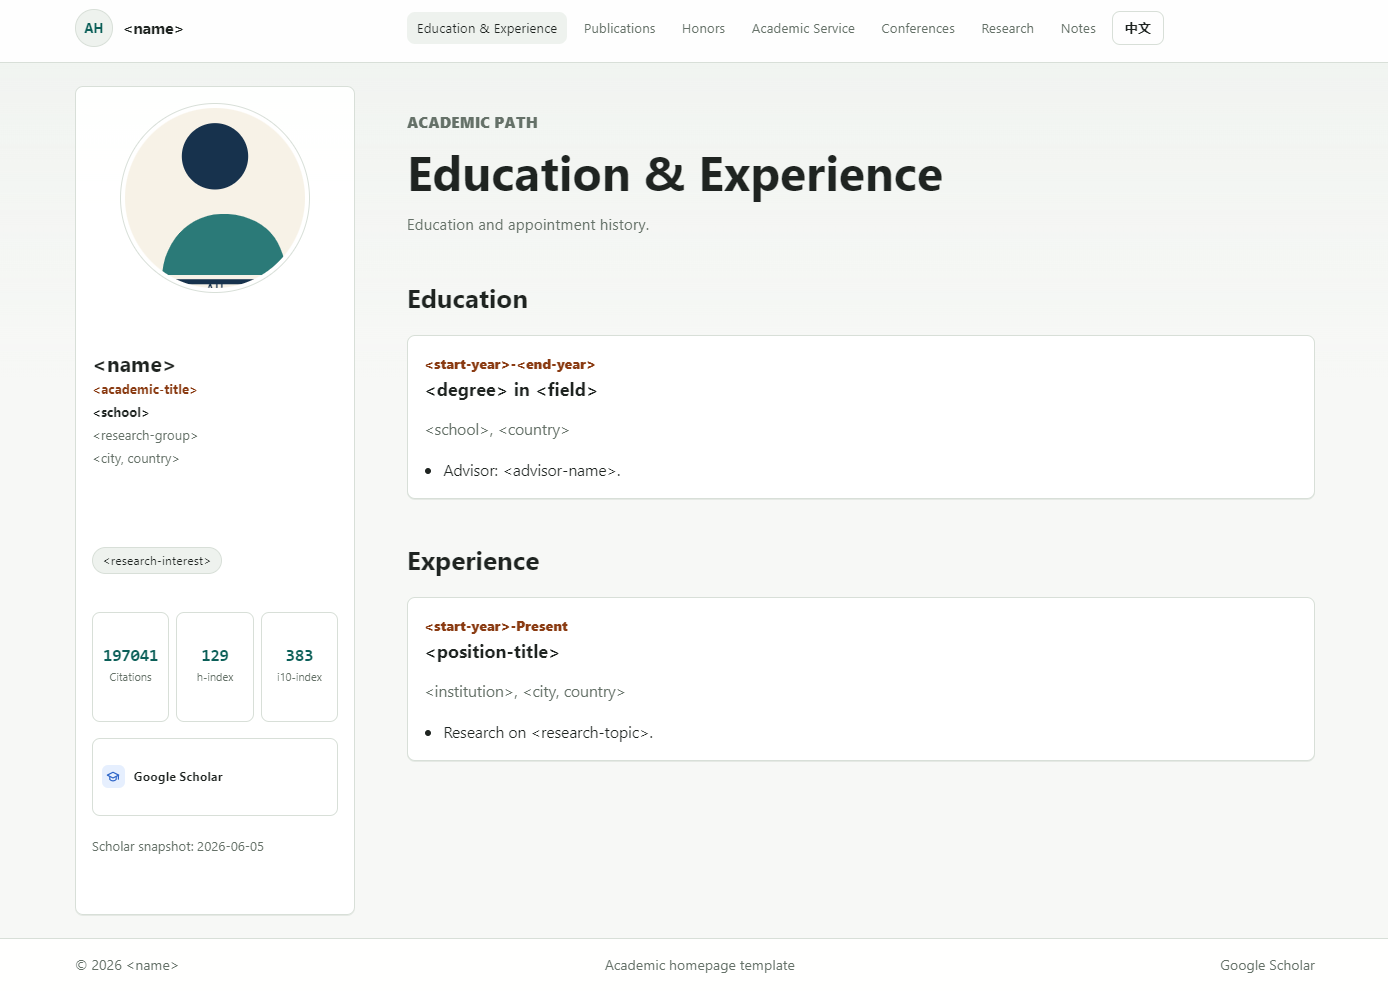
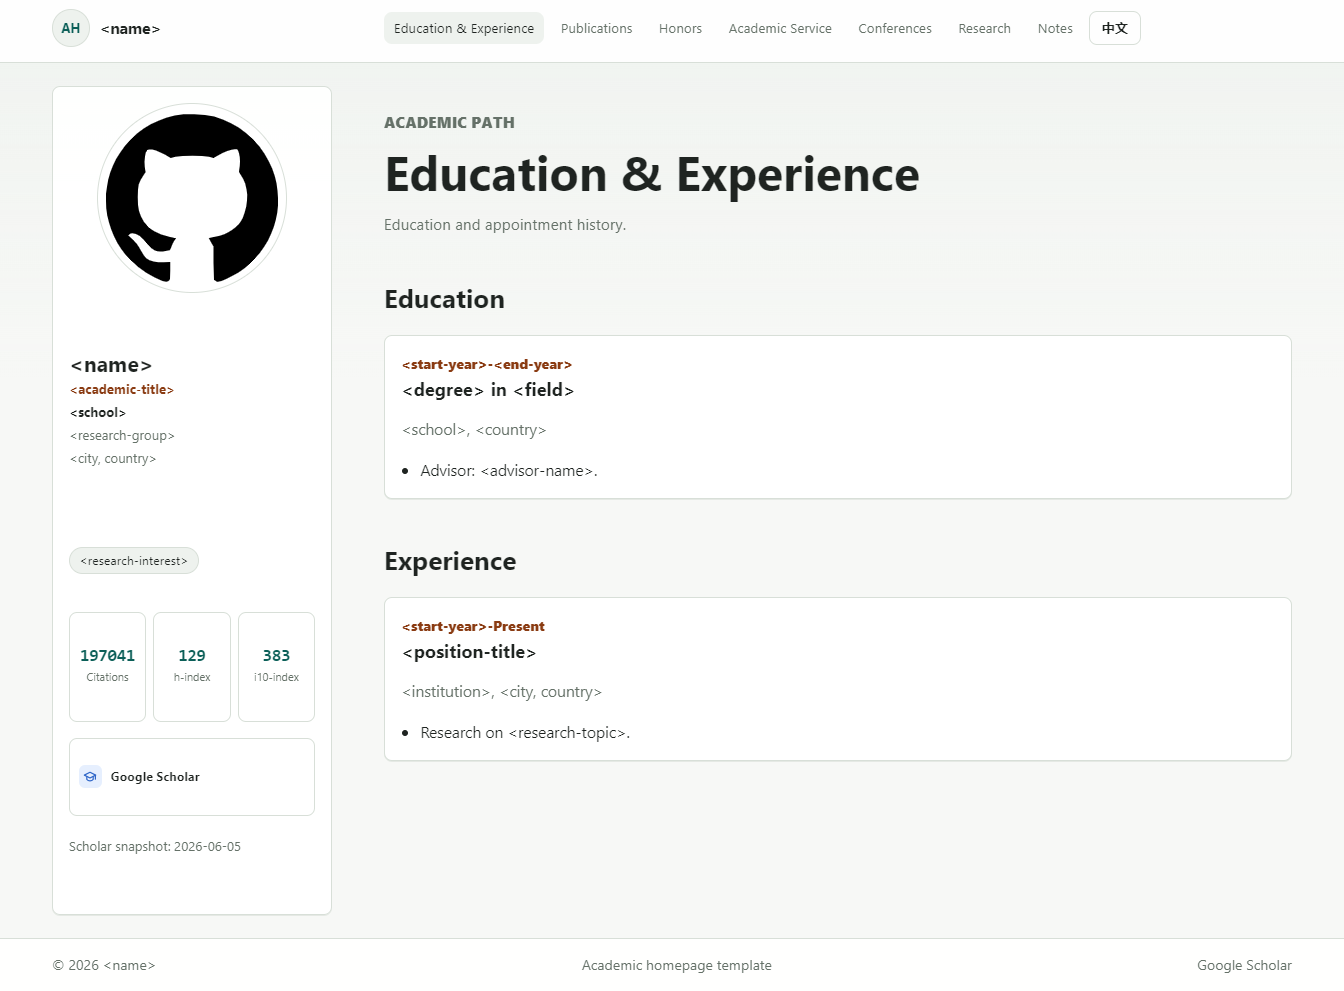
Rewrite README usage guide

diff --git a/README.md b/README.md
@@ -1,6 +1,6 @@
 # Academic Homepage Template
 
-A lightweight bilingual Jekyll template for academic personal homepages. The template keeps personal content in YAML files, can refresh Google Scholar data locally, and ships with placeholder records so it is easy to adapt without exposing private information.
+A bilingual Jekyll template for academic personal homepages. It is designed to be edited from a few YAML files, refreshed from Google Scholar when needed, and published as a GitHub Pages site.
 
 ## Preview
 
@@ -8,58 +8,114 @@ A lightweight bilingual Jekyll template for academic personal homepages. The tem
 
 ![Publications and citation history preview](screenshot/crop_2.png)
 
-## Quick Start
+## What This Template Includes
 
-Install Ruby, Bundler, and the gems first:
+- English and Chinese pages.
+- A fixed profile sidebar with avatar, links, research interests, and Scholar metrics.
+- Pages for publications, education, experience, honors, service, conferences, patents, and essays.
+- A Google Scholar refresh script with a default limit of 20 publications.
+- A citation history chart that shows the latest 10 years by default.
+- Placeholder content such as `<name>`, `<school>`, and `<research-interest>` so the template can be reused safely.
+
+## First-Time Setup
+
+Install Ruby, Bundler, and Python first. Then install the Jekyll dependencies:
 
 ```powershell
 bundle install
 ```
 
-On Windows, double-click `run_server.bat` to refresh Scholar data and start the local Jekyll preview. `run_server.ps1` does the same from PowerShell.
+After that, Windows users can usually start the site by double-clicking `run_server.bat`.
 
-The preview runs at:
+## Double-Click On Windows
+
+The easiest local workflow is:
 
 ```text
-http://127.0.0.1:4000/
+Double-click run_server.bat
 ```
 
-## Scholar Refresh
+That `.bat` file does four things:
 
-The launch scripts run this before serving the site:
+1. Switches into the project folder.
+2. Adds `C:\Ruby33-x64\bin` to `PATH` if Ruby is installed there.
+3. Runs the Google Scholar refresh in fast mode:
 
 ```powershell
 python scripts/update_scholar.py --skip-links --limit 20
 ```
 
-That updates:
+4. Starts the local Jekyll preview:
 
-- `_data/publications.yml`
-- `_data/citation_history.yml`
-- Scholar metrics inside `_data/profile.yml`
+```powershell
+bundle exec jekyll serve --host 127.0.0.1 --port 4000 --livereload
+```
 
-The default Scholar profile is Albert Einstein's public profile, used only as a safe example. To use your own profile, set `SCHOLAR_USER_ID` before launching the script, or run:
+Then open:
+
+```text
+http://127.0.0.1:4000/
+```
+
+If Scholar blocks the request, the existing `_data` files are kept and the preview still starts. Close the terminal window or press `Ctrl+C` to stop the server.
+
+`run_server.ps1` provides the same workflow for PowerShell. `update_and_preview.bat` also refreshes Scholar data, starts Jekyll, and opens the preview URL automatically.
+
+## Updating Google Scholar Data
+
+The default profile is Albert Einstein's public Google Scholar profile, used as a safe example:
+
+```text
+https://scholar.google.com/citations?user=qc6CJjYAAAAJ
+```
+
+To use your own profile, copy the `user` value from your Scholar URL and run:
 
 ```powershell
 python scripts/update_scholar.py --user-id <scholar_user_id> --limit 20 --skip-links
 ```
 
-Google Scholar may block frequent automated requests. If that happens, the script exits without overwriting existing YAML files.
+You can also set an environment variable before double-clicking the launch script:
 
-## Editing Content
+```powershell
+$env:SCHOLAR_USER_ID = "<scholar_user_id>"
+```
 
-Most personal content lives in `_data/profile.yml`. Update both the `en` and `zh` sections if you want the bilingual pages to stay aligned.
+The refresh script updates:
 
-- Profile name, title, affiliation, portrait, links, research interests, metrics, education, experience, honors, service, conferences, skills, and patents: `_data/profile.yml`
-- Navigation labels and section links: `_data/navigation.yml`
-- Full publication records: `_data/publications.yml`
+- `_data/publications.yml`
+- `_data/citation_history.yml`
+- Scholar metrics in `_data/profile.yml`
+
+Use `--skip-links` for the most reliable update. Without it, the script also tries to visit individual Scholar detail pages to find original article links, which is slower and more likely to be blocked.
+
+## Replacing Personal Information
+
+Most edits happen in `_data/profile.yml`. Update both `en` and `zh` sections if you want both languages to match.
+
+- Name, title, school, group, location, avatar, personal links, research interests, metrics, education, experience, honors, service, conferences, skills, and patents: `_data/profile.yml`
+- Navigation labels and URLs: `_data/navigation.yml`
+- Full publication list: `_data/publications.yml`
 - Homepage selected publications: `_data/selected_publications.yml`
 - Citation chart data: `_data/citation_history.yml`
-- Essays and notes: `_posts/`
-- Page text: `index.md`, `zh/index.md`, and the other top-level Markdown pages
-- Styles: `assets/css/main.scss`
+- Homepage text: `index.md` and `zh/index.md`
+- Other page text: `publications.md`, `zh/publications.md`, and the other top-level Markdown files
+- Essays or notes: `_posts/`
+- Styling: `assets/css/main.scss`
 
-The default language is English at `/`; Chinese pages live under `/zh/`.
+The avatar path is also configured in `_data/profile.yml`. The template currently uses a GitHub-style default avatar at:
+
+```text
+assets/images/github-default-avatar.svg
+```
+
+## Publishing
+
+Push the repository to GitHub and enable GitHub Pages for the branch you want to publish. For a user or organization site, name the repository `<username>.github.io`. For a project site, GitHub Pages will usually publish under:
+
+```text
+https://<username>.github.io/<repository-name>/
+```
 
 ## License
 
